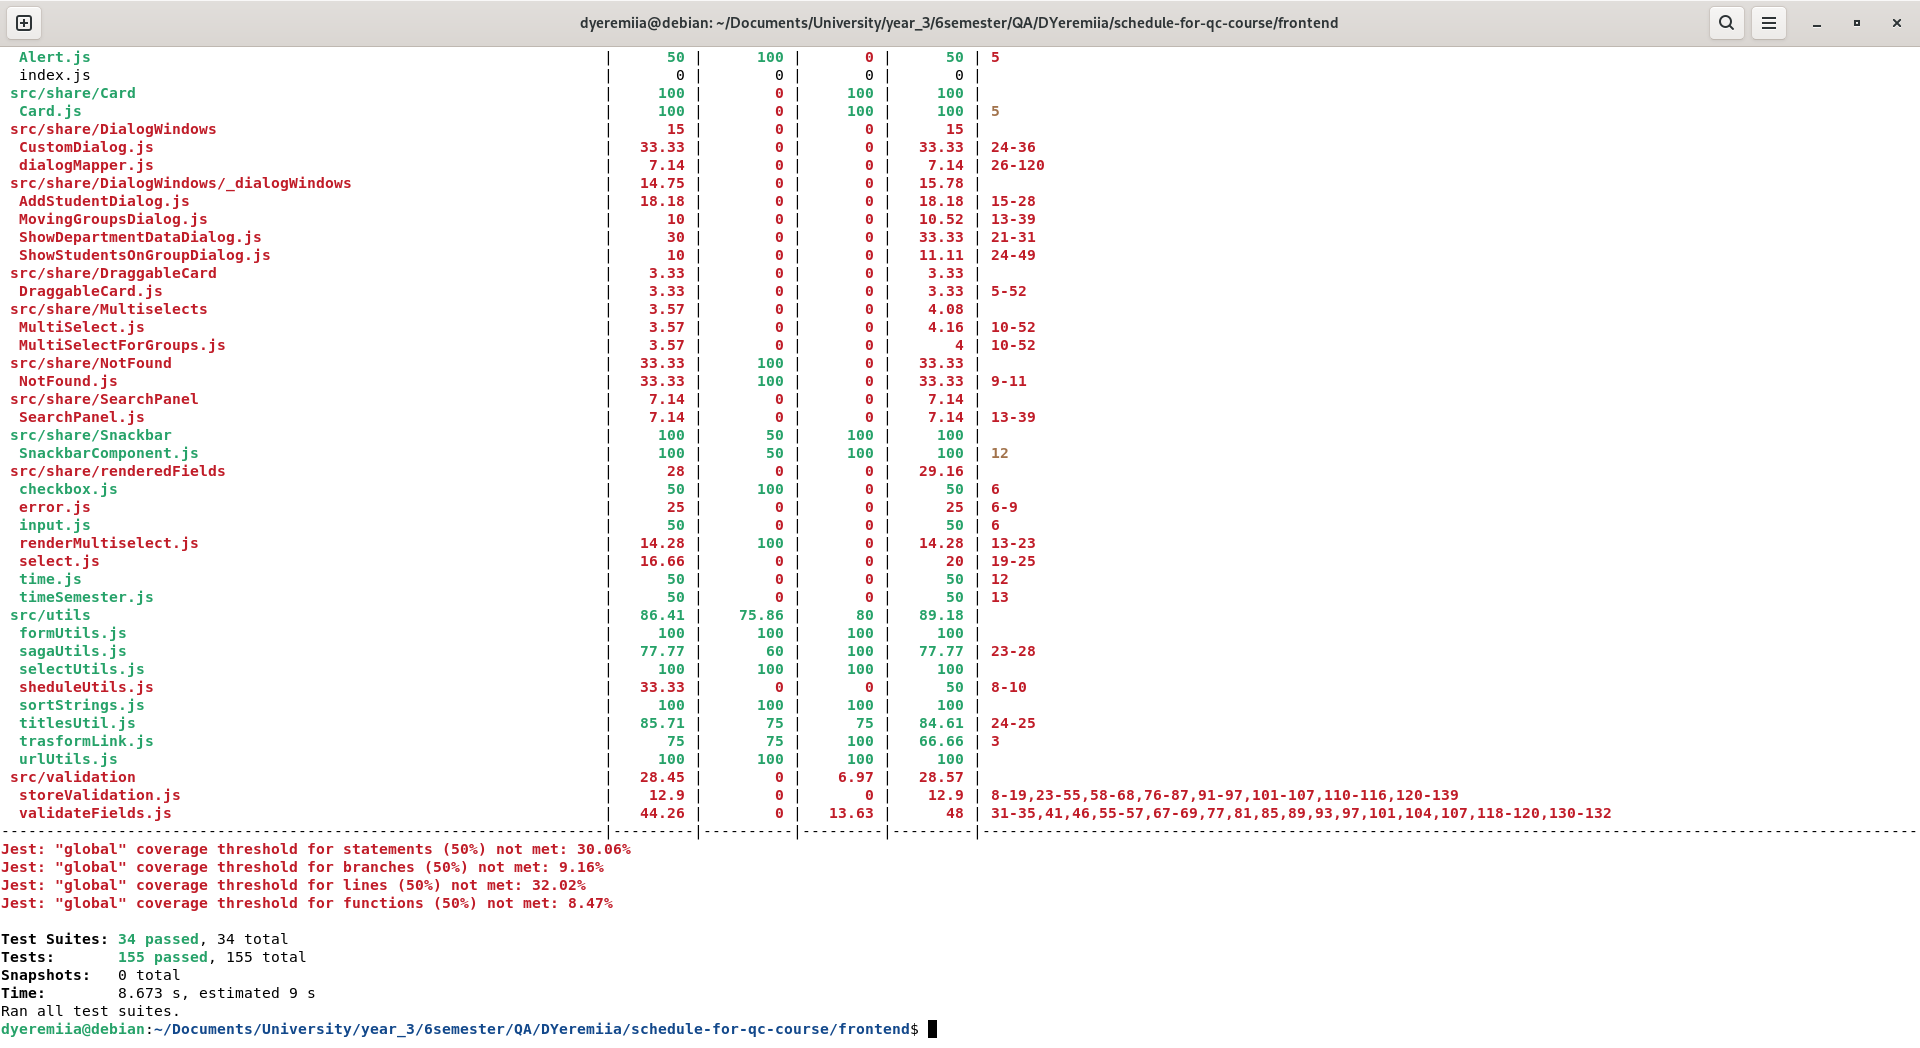
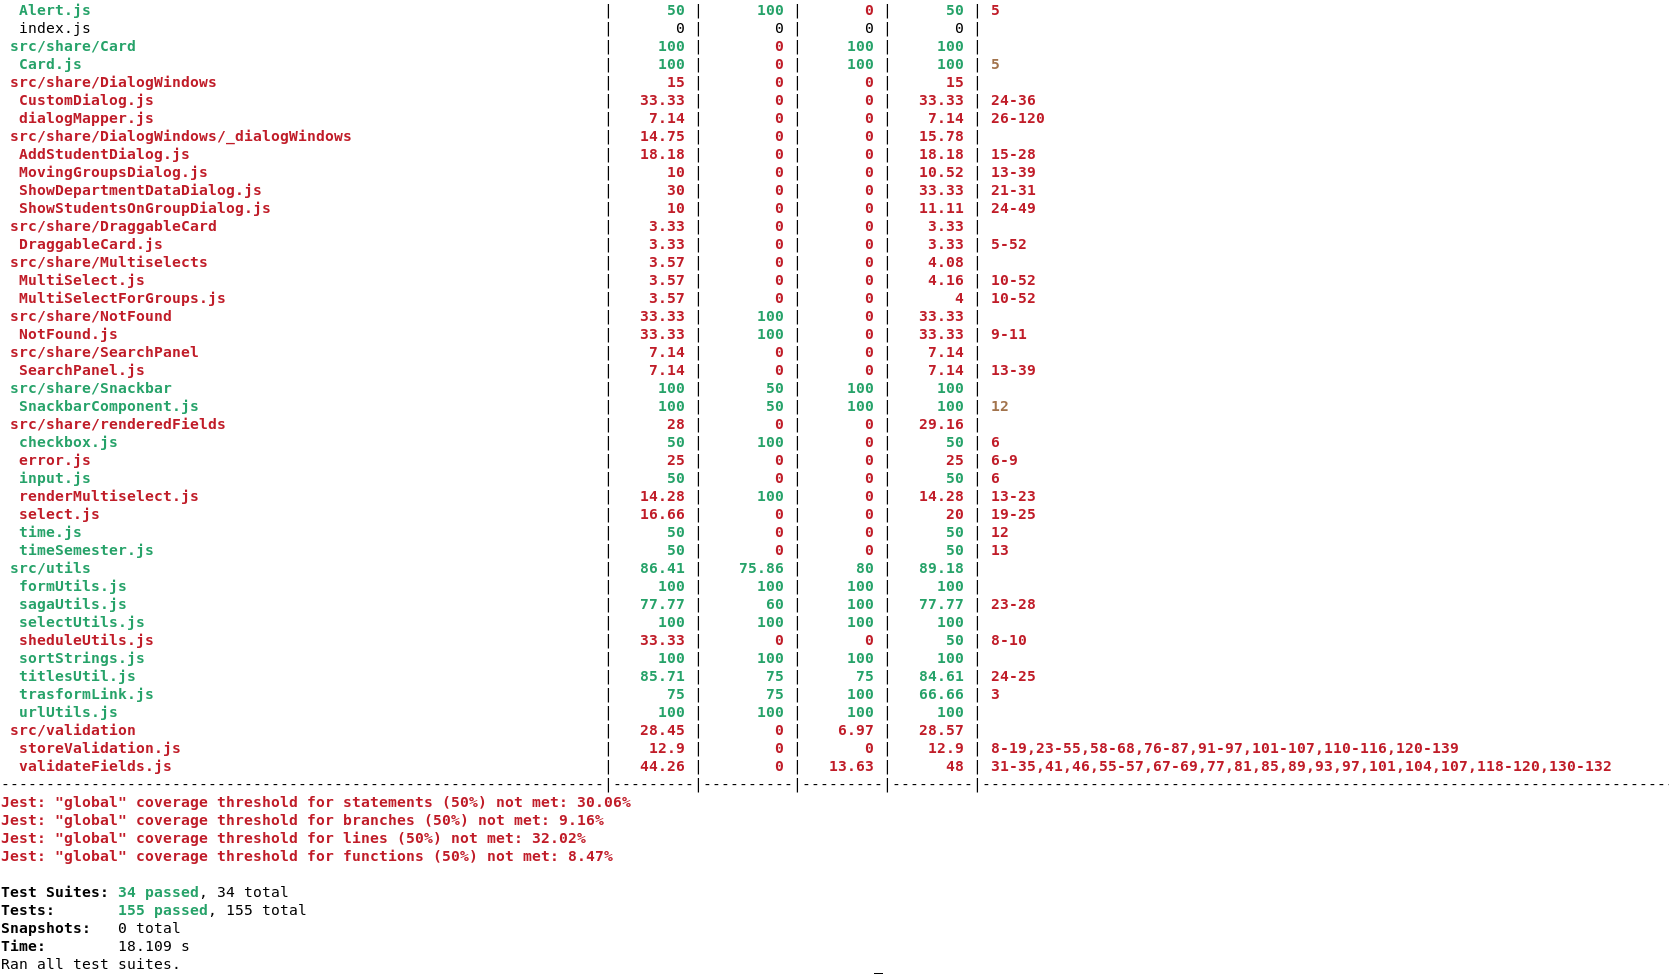
LB3

Changed region(s): [[0.0, 0.0, 1.0, 1.0]]

diff --git a/docs/coverage-report.md b/docs/coverage-report.md
@@ -8,14 +8,37 @@
 
 ## Аналіз
 
-- **Які функції/класи покриті найкраще?**
-  Найкраще покрито функції `getHref` та `search`, оскільки для них було написано понад 10 нових тестів, які покривають позитивні сценарії, граничні випадки (edge cases) та обробку некоректних даних (null, undefined). Відсоток покриття функцій (Functions) для них становить 100%.
+- ** Які функції/класи покриті найкраще? **
 
-- **Які потребують додаткових тестів?**
-  Додаткових тестів потребують файли з директорії `src/validation`, оскільки їхнє покриття наразі є критично низьким (менше 30%).
+  - Constants & Utils: Файли в папках src/constants (майже всі 100%) та src/utils (наприклад, formUtils.js, selectUtils.js, urlUtils.js). Це прості функції без складної логіки.
 
-- **Чому деякі branches не покриті?**
- Не всі гілки (branches) покриті, тому що в коді існують складні умови (if/else) або перевірки на optional chaining (`?.`), для яких ще не створено специфічних мокових даних, що імітують відсутність цих вкладених об'єктів.
+  - Компоненти відображення: GroupCard.js, LessonTypeBadge.js, LessonsList.js, RoomsList.js. Вони мають 100% покриття, оскільки переважно лише рендерять вхідні дані.
+
+  - Допоміжні сервіси: setLink.js, axios.js (у папці helper), cardObjectHandler.js.
+
+  - Redux-інструменти: actionType.js, index.js (у багатьох папках).
+
+- ** Які потребують додаткових тестів? **
+
+  -  Форми (Forms): Більшість компонентів у src/components/...Form мають критично низьке покриття (від 1% до 18%). Наприклад: AddTeacherForm.js, LessonForm.js, RegistrationForm.js.
+
+  - Сторінки (Containers/Pages): Великі модулі, такі як TeachersPage.js (1.75%), SchedulePage.js, RoomsPage.js. Тести не охоплюють життєвий цикл цих сторінок.
+
+  - Sagas: Папка src/sagas має низькі показники (загалом ~12%). Бізнес-логіка завантаження даних (наприклад, schedule.js — 10.98%) майже не перевірена.
+
+  - Сервіси: departmentService.js, teacherService.js, userService.js. Покриті лише базові виклики, без обробки помилок.
+
+  - Валідація: storeValidation.js (12.9%) та validateFields.js (44.26%).
+
+- ** Чому деякі branches не покриті? **
+
+  - Відсутність тестів на помилки: Стовпчик % Branch показує 0% у більшості сервісів та саг. Це означає, що тести перевіряють лише успішне виконання (try), але не перевіряють блоки catch або умови перевірки статусів відповідей.
+
+  - Складні умовні рендери: У компонентах форм (наприклад, AddStudentForm) не протестовані різні стани: показ повідомлень про помилки, активна/неактивна кнопка сабміту, відображення лоадерів.
+
+  - Обробники подій: У великих файлах (стовпчик Uncovered Line #s) пропущені функції onClick, onChange та логіка перемикання табів або фільтрів (наприклад, у Schedule.js або Header.js).
+
+  - Default props та Edge cases: Не перевірені випадки, коли дані приходять як null або undefined, що часто зустрічається в логіці маперів (наприклад, fullScheduleMapper.js — 6.06% Statements).
 
 ## Скріншот
 ![Coverage Report](./image.png)
